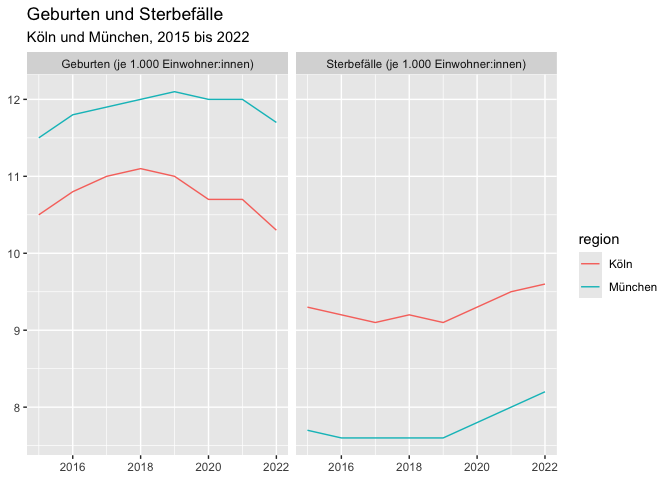
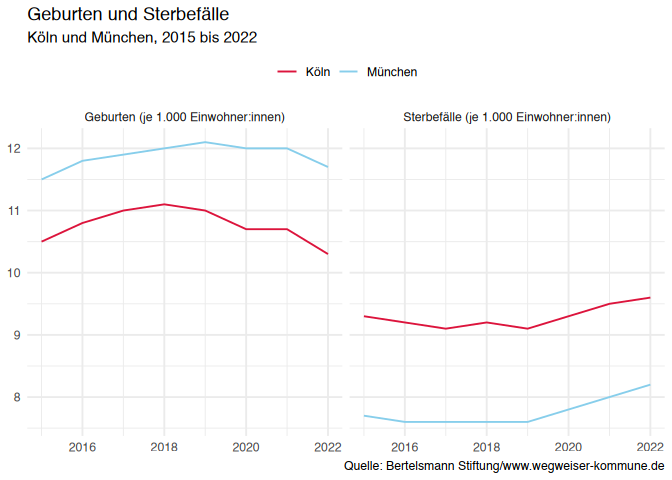
Update README

diff --git a/README.md b/README.md
@@ -52,11 +52,17 @@ years <- paste(range(dat$year), collapse = " bis ")
 regions <- paste(unique(dat$region), collapse = " und ")
 ggplot(dat, aes(x = year, y = value, color = region, group = region)) +
   geom_line() +
+  scale_color_manual(
+    values = c("#DC143C", "#87CEEB")
+  ) +
   facet_wrap(~indicator) +
+  theme_minimal() +
+  theme(legend.position = "top") +
   labs(
     title = "Geburten und Sterbefälle",
     subtitle = sprintf("%s, %s", regions, years),
-    x = NULL, y = NULL
+    x = NULL, y = NULL, color = NULL,
+    caption = "Quelle: Bertelsmann Stiftung/www.wegweiser-kommune.de"
   )
 ```
 
@@ -73,3 +79,23 @@ demography, education, finances, health, and sustainability.
 
 This package wraps the REST API documented here:  
 📖 <https://www.wegweiser-kommune.de/open-data>
+
+## 📜 Terms of Use
+
+The data processed with this package originates from the platform
+[Wegweiser Kommune](https://www.wegweiser-kommune.de).  
+Please make sure to comply with the [Terms of
+Use](https://www.wegweiser-kommune.de/nutzungsbedingungen) when
+accessing or using data from this source.
+
+> The contents of Wegweiser Kommune are provided free of charge by the
+> Bertelsmann Stiftung. Due to different licensing conditions of the
+> underlying raw data, which are supplied by various data holders, the
+> indicators are made available under the [Data License Germany –
+> Attribution – Version 2.0](https://www.govdata.de/dl-de/by-2-0).  
+> Reproduction and distribution, even in part, must always include the
+> source attribution: **“Bertelsmann
+> Stiftung/www.wegweiser-kommune.de”**.
+
+Users are responsible for ensuring that their use of the data adheres to
+these conditions.
